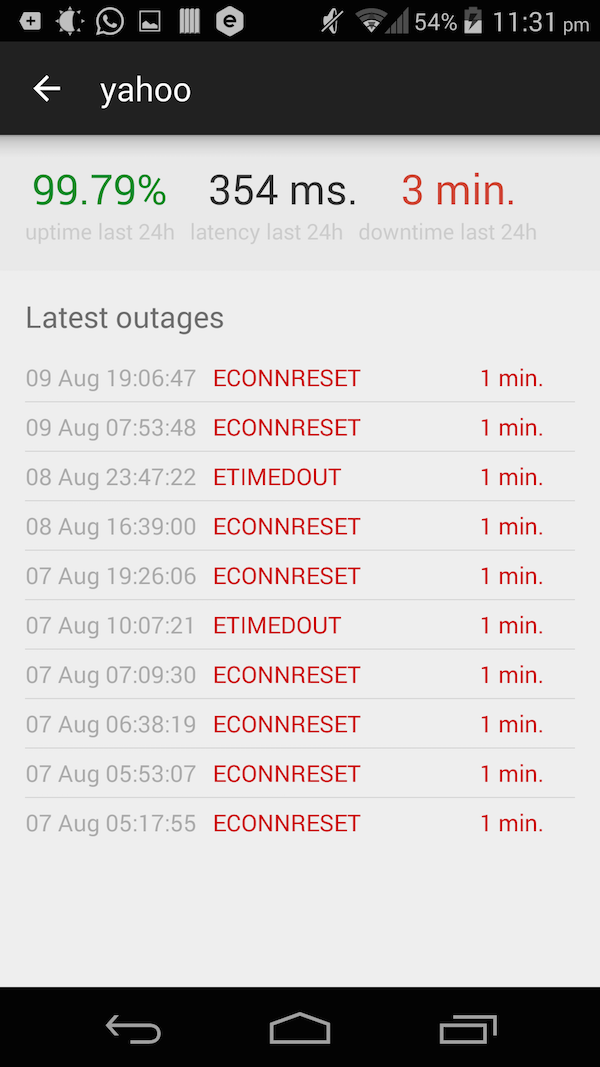
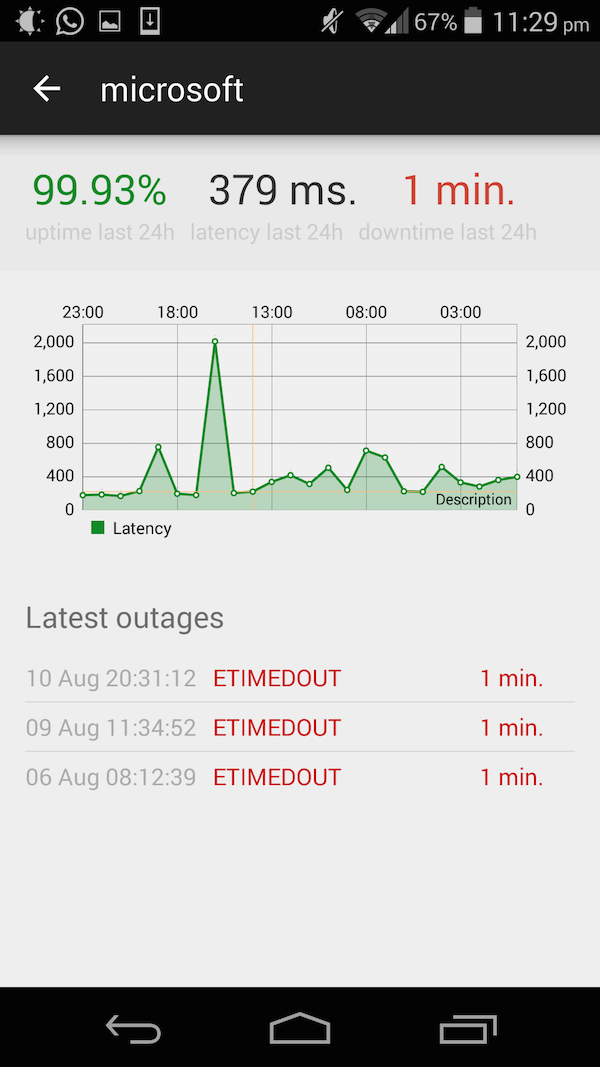
Add latency chart

diff --git a/app/src/main/java/com/iloire/watchmen/charts/LatencyChartDataBuilder.java b/app/src/main/java/com/iloire/watchmen/charts/LatencyChartDataBuilder.java
@@ -1,0 +1,52 @@
+package com.iloire.watchmen.charts;
+
+import android.graphics.Color;
+
+import com.github.mikephil.charting.data.Entry;
+import com.github.mikephil.charting.data.LineData;
+import com.github.mikephil.charting.data.LineDataSet;
+import com.iloire.watchmen.Utilities.Time;
+import com.iloire.watchmen.models.LatencyRecord;
+
+import java.util.ArrayList;
+import java.util.List;
+
+public class LatencyChartDataBuilder {
+
+    /**
+     * Builds latency chart data
+     * @param latencyList
+     * @param timeFormat
+     * @return
+     */
+    public static LineData getData (List<LatencyRecord> latencyList, String timeFormat){
+        int latencyListSize = latencyList.size();
+
+        ArrayList<String> xVals = new ArrayList<>();
+        ArrayList<Entry> yVals = new ArrayList<>();
+
+        //TODO: deal with timezones
+        int index = 0;
+        for (int i = latencyListSize - 1; i >= 0; i--) {
+            xVals.add(Time.humanizeEpoch(latencyList.get(i).getT(), timeFormat));
+            yVals.add(new Entry((float)latencyList.get(i).getL(), index));
+            index++;
+        }
+
+        LineDataSet set1 = new LineDataSet((List)yVals, "Latency last 24 hours");
+        int chartMainColor = Color.rgb(20, 137, 44);
+        set1.setColor(chartMainColor);
+        set1.setCircleColor(chartMainColor);
+        set1.setLineWidth(1.5f);
+        set1.setCircleSize(2f);
+        set1.setValueTextSize(0);
+        set1.setFillAlpha(65);
+        set1.setFillColor(chartMainColor);
+        set1.setDrawFilled(true);
+
+        ArrayList<LineDataSet> dataSets = new ArrayList<>();
+        dataSets.add(set1);
+
+        return new LineData(xVals, dataSets);
+    }
+}

diff --git a/app/src/main/java/com/iloire/watchmen/models/Latency.java b/app/src/main/java/com/iloire/watchmen/models/Latency.java
@@ -9,16 +9,15 @@ import javax.annotation.Generated;
 @Generated("org.jsonschema2pojo")
 public class Latency {
 
-    private java.util.List<com.iloire.watchmen.models.List> list = new ArrayList<com.iloire.watchmen.models.List>();
+    private java.util.List<LatencyRecord> list = new ArrayList<LatencyRecord>();
     private int mean;
-    private Map<String, Object> additionalProperties = new HashMap<String, Object>();
 
     /**
      * 
      * @return
      *     The list
      */
-    public java.util.List<com.iloire.watchmen.models.List> getList() {
+    public java.util.List<LatencyRecord> getList() {
         return list;
     }
 
@@ -27,7 +26,7 @@ public class Latency {
      * @param list
      *     The list
      */
-    public void setList(java.util.List<com.iloire.watchmen.models.List> list) {
+    public void setList(java.util.List<LatencyRecord> list) {
         this.list = list;
     }
 
@@ -48,13 +47,4 @@ public class Latency {
     public void setMean(int mean) {
         this.mean = mean;
     }
-
-    public Map<String, Object> getAdditionalProperties() {
-        return this.additionalProperties;
-    }
-
-    public void setAdditionalProperty(String name, Object value) {
-        this.additionalProperties.put(name, value);
-    }
-
 }

diff --git a/app/src/main/java/com/iloire/watchmen/activities/ServiceReportDetailsActivity.java b/app/src/main/java/com/iloire/watchmen/activities/ServiceReportDetailsActivity.java
@@ -7,9 +7,11 @@ import android.view.View;
 import android.widget.ListView;
 import android.widget.TextView;
 
+import com.github.mikephil.charting.charts.LineChart;
 import com.iloire.watchmen.R;
 import com.iloire.watchmen.Utilities.Time;
 import com.iloire.watchmen.adapters.ServiceReportOutagesListAdapter;
+import com.iloire.watchmen.charts.LatencyChartDataBuilder;
 import com.iloire.watchmen.models.Last24Hours;
 import com.iloire.watchmen.models.ServiceReport;
 import com.iloire.watchmen.service.WatchmenService;
@@ -63,6 +65,11 @@ public class ServiceReportDetailsActivity extends AppCompatActivity {
                 } else {
                     findViewById(R.id.textViewLatestOutagesCaption).setVisibility(View.INVISIBLE);
                 }
+
+                // latency chart last 24 h.
+                LineChart chart = (LineChart) findViewById(R.id.chartServiceDetailsLatencyLast24Hours);
+                LatencyChartDataBuilder dataBuilder = new LatencyChartDataBuilder();
+                chart.setData(dataBuilder.getData(serviceReport.getStatus().getLast24Hours().getLatency().getList(), "HH:mm"));
             }
 
             @Override

diff --git a/app/src/main/java/com/iloire/watchmen/models/LatencyRecord.java b/app/src/main/java/com/iloire/watchmen/models/LatencyRecord.java
@@ -6,11 +6,10 @@ import java.util.Map;
 import javax.annotation.Generated;
 
 @Generated("org.jsonschema2pojo")
-public class List {
+public class LatencyRecord {
 
     private long t;
     private double l;
-    private Map<String, Object> additionalProperties = new HashMap<String, Object>();
 
     /**
      * 
@@ -47,13 +46,4 @@ public class List {
     public void setL(double l) {
         this.l = l;
     }
-
-    public Map<String, Object> getAdditionalProperties() {
-        return this.additionalProperties;
-    }
-
-    public void setAdditionalProperty(String name, Object value) {
-        this.additionalProperties.put(name, value);
-    }
-
 }

diff --git a/app/src/main/java/com/iloire/watchmen/Utilities/Time.java b/app/src/main/java/com/iloire/watchmen/Utilities/Time.java
@@ -6,9 +6,9 @@ import java.util.concurrent.TimeUnit;
 
 public class Time {
 
-    public static String humanizeEpoch(long unixTimeInMs){
-        Date dateTime = new java.util.Date((long) unixTimeInMs);
-        SimpleDateFormat df = new SimpleDateFormat("dd MMM HH:mm:ss");
+    public static String humanizeEpoch(long unixTimeInMs, String format){
+        Date dateTime = new java.util.Date(unixTimeInMs);
+        SimpleDateFormat df = new SimpleDateFormat(format);
         return df.format(dateTime);
     }
 

diff --git a/app/src/main/java/com/iloire/watchmen/adapters/ServiceReportOutagesListAdapter.java b/app/src/main/java/com/iloire/watchmen/adapters/ServiceReportOutagesListAdapter.java
@@ -30,7 +30,7 @@ public class ServiceReportOutagesListAdapter extends ArrayAdapter<Outage> {
         }
 
         ((TextView) convertView.findViewById(R.id.textViewOutageTimestamp)).setText(
-                Time.humanizeEpoch(outage.getTimestamp()));
+                Time.humanizeEpoch(outage.getTimestamp(), "dd MMM HH:mm:ss"));
 
         ((TextView) convertView.findViewById(R.id.textViewOutageError)).setText(
                 humanizeError(outage.getError()));
